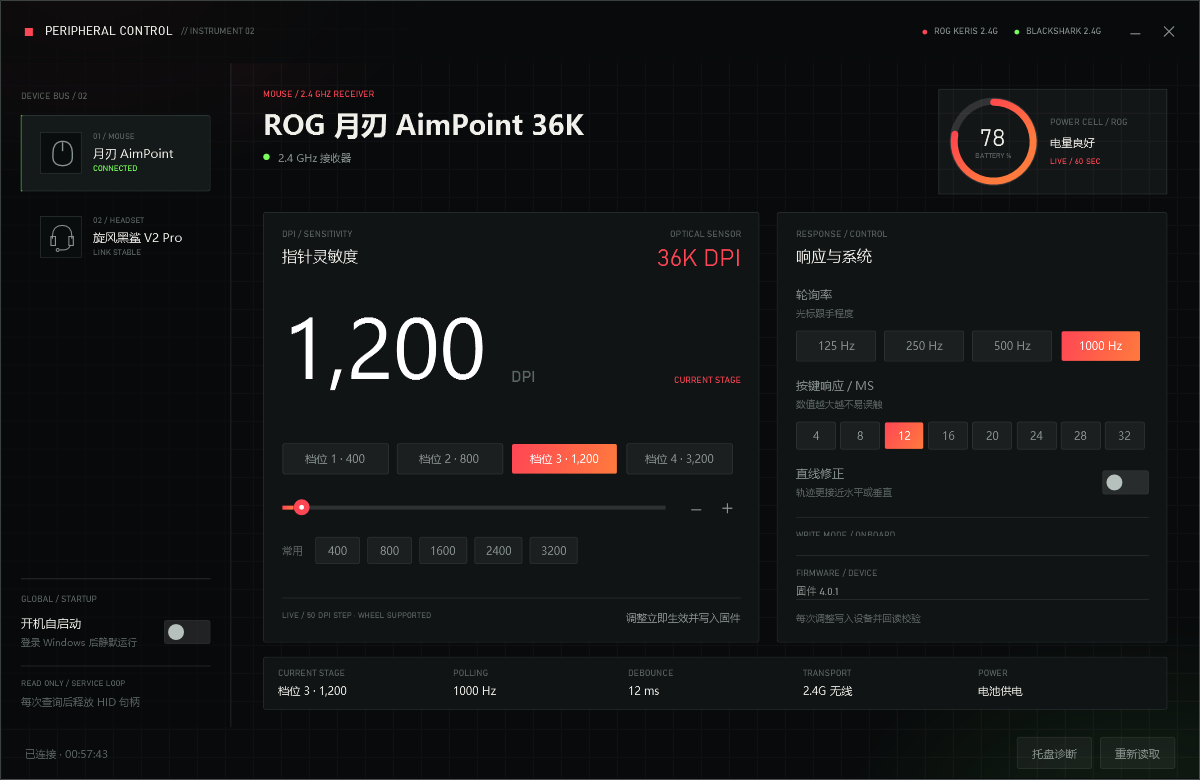
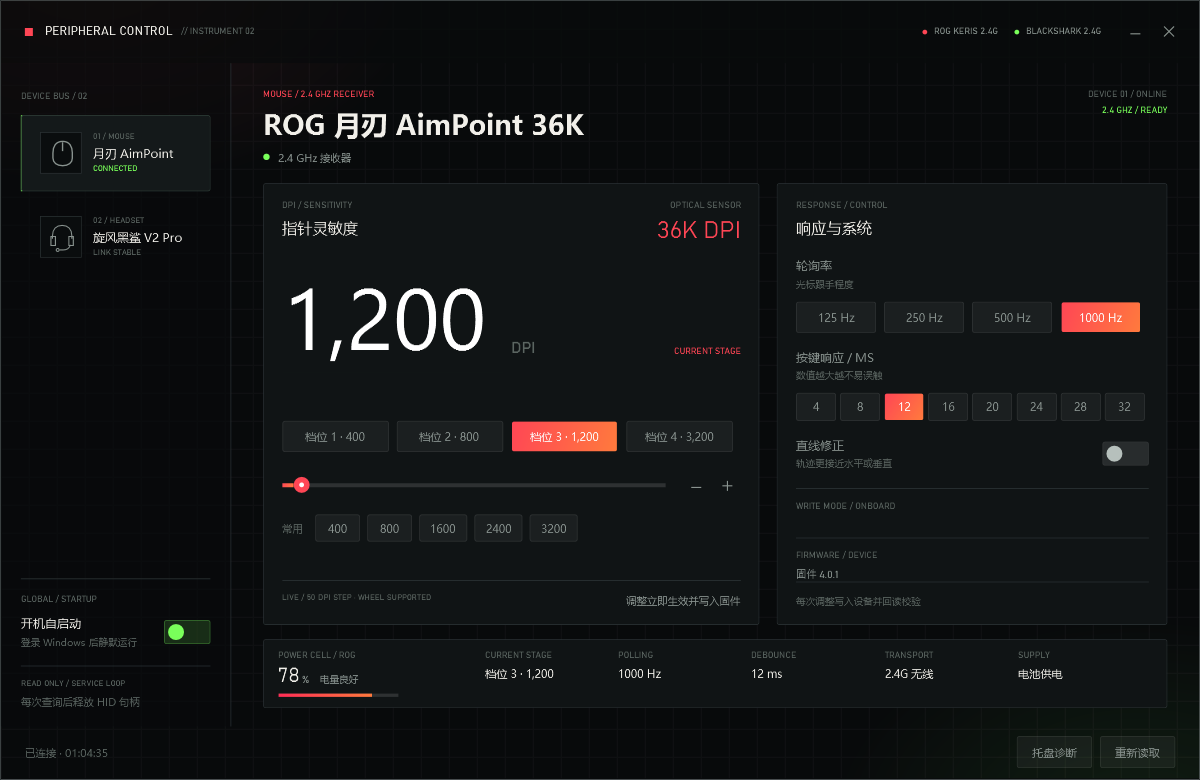
fix: integrate mouse battery into telemetry strip

diff --git a/ui/MainWindow.xaml b/ui/MainWindow.xaml
@@ -491,31 +491,11 @@
                     <TextBlock x:Name="ConnText" Text="2.4 GHz 接收器" FontSize="10.5" Foreground="{StaticResource TextSecondary}" Margin="8,0,0,0"/>
                   </StackPanel>
                 </StackPanel>
-                <Border HorizontalAlignment="Right" VerticalAlignment="Top" Background="#0CFFFFFF"
-                        BorderBrush="{StaticResource Line}" BorderThickness="1" Padding="10,8">
-                  <Grid>
-                    <Grid.ColumnDefinitions>
-                      <ColumnDefinition Width="88"/>
-                      <ColumnDefinition Width="Auto"/>
-                    </Grid.ColumnDefinitions>
-                    <Grid Width="88" Height="88">
-                      <Ellipse Width="88" Height="88" Stroke="#20FFFFFF" StrokeThickness="7"/>
-                      <Path x:Name="BatteryArc" StrokeThickness="7" StrokeStartLineCap="Round" StrokeEndLineCap="Round"
-                            Stroke="{StaticResource SignalRed}"/>
-                      <StackPanel VerticalAlignment="Center" HorizontalAlignment="Center">
-                        <TextBlock x:Name="BatteryValue" Text="--" FontFamily="Bahnschrift" FontSize="24" FontWeight="Light"
-                                   Foreground="{StaticResource TextPrimary}" HorizontalAlignment="Center"/>
-                        <TextBlock Text="BATTERY %" FontFamily="Bahnschrift" FontSize="7" Foreground="{StaticResource TextTertiary}"
-                                   HorizontalAlignment="Center" Margin="0,-2,0,0"/>
-                      </StackPanel>
-                    </Grid>
-                    <StackPanel Grid.Column="1" Margin="12,0,0,0" VerticalAlignment="Center" MinWidth="106">
-                      <TextBlock Text="POWER CELL / ROG" Style="{StaticResource UtilityLabel}"/>
-                      <TextBlock x:Name="BatteryHint" Text="正在读取…" FontSize="11" Foreground="{StaticResource TextPrimary}" Margin="0,7,0,0"/>
-                      <TextBlock Text="LIVE / 60 SEC" FontFamily="Bahnschrift" FontSize="8" Foreground="{StaticResource SignalRed}" Margin="0,6,0,0"/>
-                    </StackPanel>
-                  </Grid>
-                </Border>
+                <StackPanel HorizontalAlignment="Right" VerticalAlignment="Top">
+                  <TextBlock Text="DEVICE 01 / ONLINE" Style="{StaticResource UtilityLabel}" HorizontalAlignment="Right"/>
+                  <TextBlock Text="2.4 GHZ / READY" FontFamily="Bahnschrift" FontSize="9"
+                             Foreground="{StaticResource SignalGreen}" HorizontalAlignment="Right" Margin="0,6,0,0"/>
+                </StackPanel>
               </Grid>
 
               <Grid Grid.Row="1">
@@ -658,17 +638,29 @@
               <Border Grid.Row="2" Style="{StaticResource InstrumentPanel}" Margin="0,14,0,0" Padding="14,10">
                 <Grid>
                   <Grid.ColumnDefinitions>
+                    <ColumnDefinition Width="1.55*"/>
                     <ColumnDefinition Width="*"/>
                     <ColumnDefinition Width="*"/>
                     <ColumnDefinition Width="*"/>
                     <ColumnDefinition Width="*"/>
                     <ColumnDefinition Width="*"/>
                   </Grid.ColumnDefinitions>
-                  <StackPanel Grid.Column="0"><TextBlock Text="CURRENT STAGE" Style="{StaticResource UtilityLabel}"/><TextBlock x:Name="SpecPreset" Text="--" FontSize="11" Foreground="{StaticResource TextPrimary}" Margin="0,4,0,0"/></StackPanel>
-                  <StackPanel Grid.Column="1"><TextBlock Text="POLLING" Style="{StaticResource UtilityLabel}"/><TextBlock x:Name="SpecRate" Text="--" FontSize="11" Foreground="{StaticResource TextPrimary}" Margin="0,4,0,0"/></StackPanel>
-                  <StackPanel Grid.Column="2"><TextBlock Text="DEBOUNCE" Style="{StaticResource UtilityLabel}"/><TextBlock x:Name="SpecDebounce" Text="--" FontSize="11" Foreground="{StaticResource TextPrimary}" Margin="0,4,0,0"/></StackPanel>
-                  <StackPanel Grid.Column="3"><TextBlock Text="TRANSPORT" Style="{StaticResource UtilityLabel}"/><TextBlock x:Name="SpecConn" Text="--" FontSize="11" Foreground="{StaticResource TextPrimary}" Margin="0,4,0,0"/></StackPanel>
-                  <StackPanel Grid.Column="4"><TextBlock Text="POWER" Style="{StaticResource UtilityLabel}"/><TextBlock x:Name="SpecCharge" Text="--" FontSize="11" Foreground="{StaticResource TextPrimary}" Margin="0,4,0,0"/></StackPanel>
+                  <StackPanel Grid.Column="0">
+                    <TextBlock Text="POWER CELL / ROG" Style="{StaticResource UtilityLabel}"/>
+                    <StackPanel Orientation="Horizontal" Margin="0,4,0,0">
+                      <TextBlock x:Name="BatteryValue" Text="--" FontFamily="Bahnschrift" FontSize="20" FontWeight="Light" Foreground="{StaticResource TextPrimary}"/>
+                      <TextBlock Text="%" FontFamily="Bahnschrift" FontSize="10" Foreground="{StaticResource TextSecondary}" VerticalAlignment="Bottom" Margin="2,0,0,2"/>
+                      <TextBlock x:Name="BatteryHint" Text="正在读取…" FontSize="9.5" Foreground="{StaticResource TextSecondary}" VerticalAlignment="Bottom" Margin="10,0,0,2"/>
+                    </StackPanel>
+                    <Border Width="120" Height="4" Background="#20FFFFFF" Margin="0,5,0,0" HorizontalAlignment="Left">
+                      <Border x:Name="BatteryFill" Width="0" Background="{StaticResource MouseGradient}" HorizontalAlignment="Left"/>
+                    </Border>
+                  </StackPanel>
+                  <StackPanel Grid.Column="1"><TextBlock Text="CURRENT STAGE" Style="{StaticResource UtilityLabel}"/><TextBlock x:Name="SpecPreset" Text="--" FontSize="11" Foreground="{StaticResource TextPrimary}" Margin="0,4,0,0"/></StackPanel>
+                  <StackPanel Grid.Column="2"><TextBlock Text="POLLING" Style="{StaticResource UtilityLabel}"/><TextBlock x:Name="SpecRate" Text="--" FontSize="11" Foreground="{StaticResource TextPrimary}" Margin="0,4,0,0"/></StackPanel>
+                  <StackPanel Grid.Column="3"><TextBlock Text="DEBOUNCE" Style="{StaticResource UtilityLabel}"/><TextBlock x:Name="SpecDebounce" Text="--" FontSize="11" Foreground="{StaticResource TextPrimary}" Margin="0,4,0,0"/></StackPanel>
+                  <StackPanel Grid.Column="4"><TextBlock Text="TRANSPORT" Style="{StaticResource UtilityLabel}"/><TextBlock x:Name="SpecConn" Text="--" FontSize="11" Foreground="{StaticResource TextPrimary}" Margin="0,4,0,0"/></StackPanel>
+                  <StackPanel Grid.Column="5"><TextBlock Text="SUPPLY" Style="{StaticResource UtilityLabel}"/><TextBlock x:Name="SpecCharge" Text="--" FontSize="11" Foreground="{StaticResource TextPrimary}" Margin="0,4,0,0"/></StackPanel>
                 </Grid>
               </Border>
             </Grid>

diff --git a/src/MainController.cs b/src/MainController.cs
@@ -7,7 +7,6 @@ using System.Windows.Controls.Primitives;
 using System.Windows.Input;
 using System.Windows.Media;
 using System.Windows.Media.Animation;
-using System.Windows.Shapes;
 
 namespace RogMouse
 {
@@ -28,7 +27,7 @@ namespace RogMouse
         private TextBlock _dpiValue;
         private TextBlock _batteryValue;
         private TextBlock _batteryHint;
-        private Path _batteryArc;
+        private Border _batteryFill;
         private Panel _stagePanel;
         private Panel _ratePanel;
         private Panel _debouncePanel;
@@ -73,7 +72,7 @@ namespace RogMouse
             _dpiValue = (TextBlock)_win.FindName("DpiValue");
             _batteryValue = (TextBlock)_win.FindName("BatteryValue");
             _batteryHint = (TextBlock)_win.FindName("BatteryHint");
-            _batteryArc = (Path)_win.FindName("BatteryArc");
+            _batteryFill = (Border)_win.FindName("BatteryFill");
             _stagePanel = (Panel)_win.FindName("StagePanel");
             _ratePanel = (Panel)_win.FindName("RatePanel");
             _debouncePanel = (Panel)_win.FindName("DebouncePanel");
@@ -1214,55 +1213,21 @@ namespace RogMouse
             return "请尽快充电";
         }
 
-        /// <summary>Draws the battery ring; percent &lt; 0 renders just the track.</summary>
+        /// <summary>Fills the compact telemetry bar; percent &lt; 0 leaves the track empty.</summary>
         private void DrawBattery(int percent)
         {
-            double size = 88;
-            double stroke = 7;
-            double radius = (size - stroke) / 2 - 1;
-            var center = new Point(size / 2, size / 2);
-
-            Color from = (Color)ColorConverter.ConvertFromString(percent >= 0 && percent < 20 ? "#FF4D4D" : "#FF2D55");
-            Color to = (Color)ColorConverter.ConvertFromString(percent >= 0 && percent < 20 ? "#FF7A3D" : "#FF7A3D");
-            _batteryArc.Stroke = new LinearGradientBrush(from, to, 45);
-
+            if (_batteryFill == null) return;
             if (percent < 0)
             {
-                _batteryArc.Data = Geometry.Empty;
+                _batteryFill.Width = 0;
+                _batteryFill.Background = Brushes.Transparent;
                 return;
             }
-            if (percent == 0) { _batteryArc.Data = Geometry.Empty; return; }
 
-            double sweep = 360.0 * Math.Min(percent, 100) / 100.0;
-            if (sweep > 359.9) sweep = 359.9;
-
-            double start = -90;
-            var p1 = PointOn(center, radius, start);
-            var p2 = PointOn(center, radius, start + sweep);
-
-            var fig = new PathFigure();
-            fig.StartPoint = p1;
-            fig.IsClosed = false;
-            var arc = new ArcSegment();
-            arc.Point = p2;
-            arc.Size = new Size(radius, radius);
-            arc.SweepDirection = SweepDirection.Clockwise;
-            arc.IsLargeArc = sweep > 180;
-            fig.Segments.Add(arc);
-
-            var geo = new PathGeometry();
-            geo.Figures.Add(fig);
-            _batteryArc.Data = geo;
-
-            // Animate the ring in from empty.
-            _batteryArc.BeginAnimation(Path.OpacityProperty, null);
-            _batteryArc.Opacity = 1;
-        }
-
-        private static Point PointOn(Point c, double r, double deg)
-        {
-            double rad = deg * Math.PI / 180.0;
-            return new Point(c.X + r * Math.Cos(rad), c.Y + r * Math.Sin(rad));
+            _batteryFill.Width = 120.0 * Math.Min(percent, 100) / 100.0;
+            Color from = (Color)ColorConverter.ConvertFromString(percent < 20 ? "#FF4D4D" : "#FF2D55");
+            Color to = (Color)ColorConverter.ConvertFromString("#FF7A3D");
+            _batteryFill.Background = new LinearGradientBrush(from, to, 0);
         }
     }
 }
